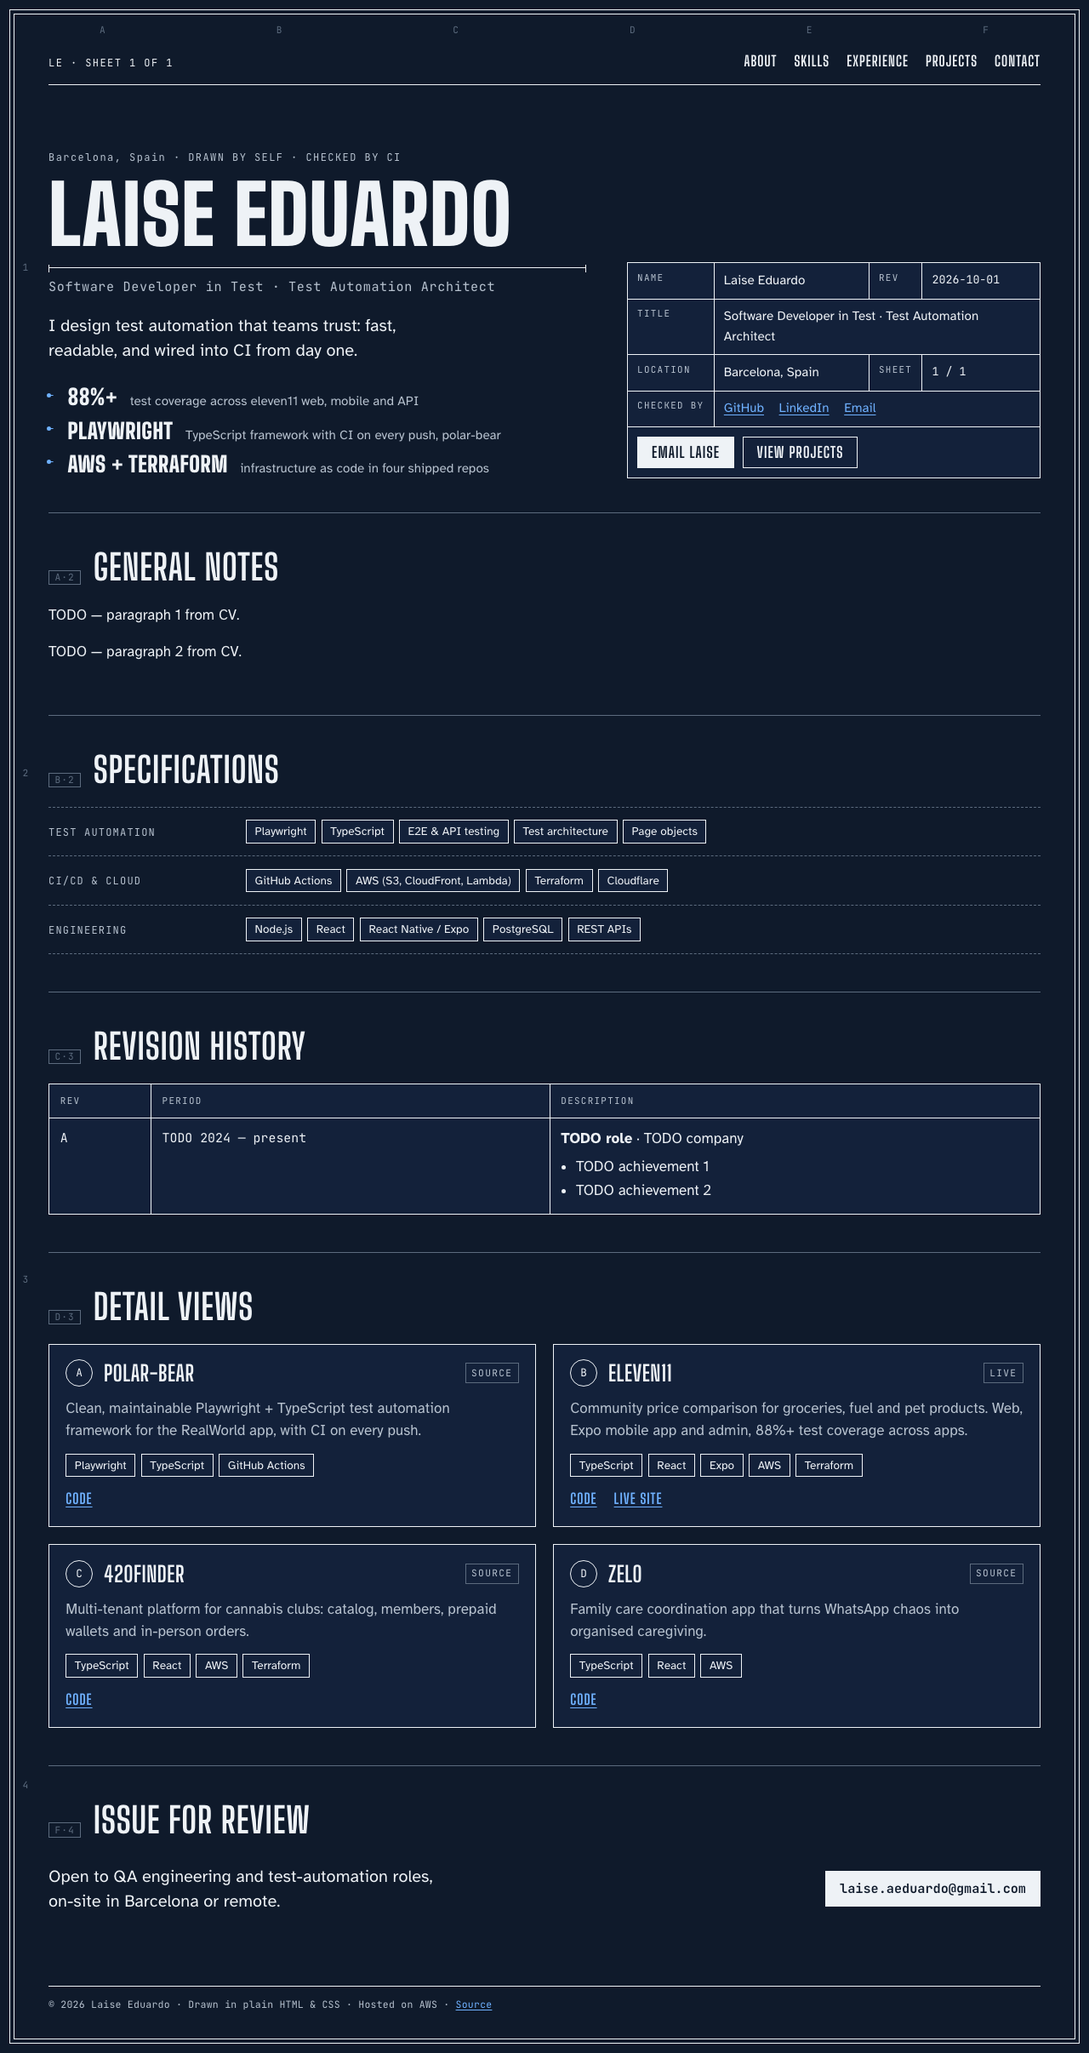
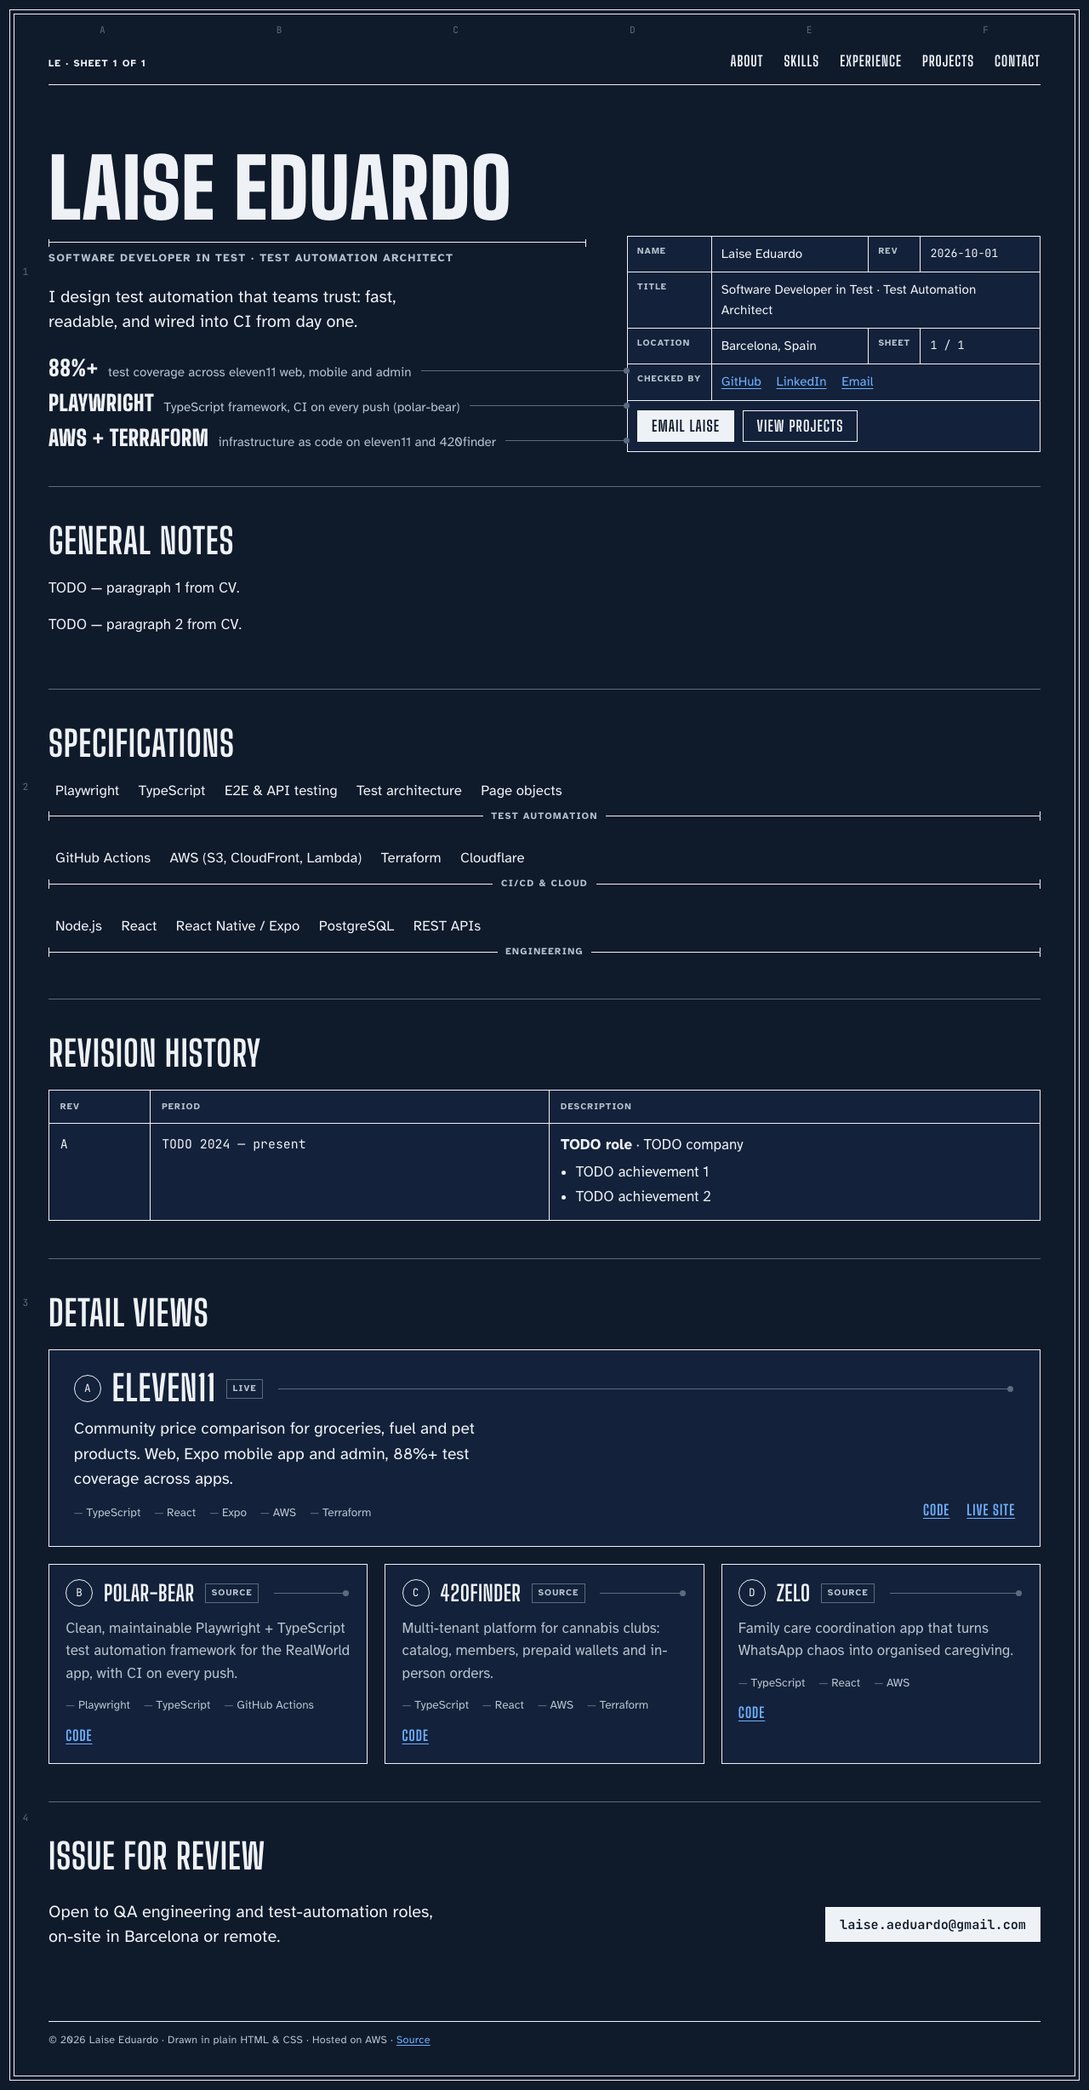
design: apply finish-review fixes (leaders, dimension lines, billing, truth, labels)

diff --git a/site/styles.css b/site/styles.css
@@ -69,6 +69,7 @@ h1, h2, h3 {
 }
 
 .mono { font-family: var(--mono); font-variant-numeric: tabular-nums; font-size: 0.875em; }
+.label, .title-block th, .rev th, .scale, .brand, footer, .top nav { font-family: var(--body); }
 
 .skip {
   position: absolute; left: var(--gutter); top: -3rem;
@@ -118,17 +119,18 @@ h1, h2, h3 {
   margin-bottom: 2rem;
 }
 .brand {
-  font-family: var(--mono); font-size: 0.75rem; letter-spacing: 0.12em;
+  font-family: var(--body); font-weight: 700; font-size: 0.72rem; letter-spacing: 0.1em; text-transform: uppercase;
   color: var(--ink); text-decoration: none;
 }
-.top nav { display: flex; flex-wrap: wrap; gap: 0 1.25rem; }
+.top nav { display: flex; flex-wrap: wrap; gap: 0 1rem; }
 .top nav a {
   font-family: var(--display); text-transform: uppercase; font-weight: 700;
-  font-size: 1.05rem; letter-spacing: 0.06em; color: var(--ink);
+  font-size: 1rem; letter-spacing: 0.06em; color: var(--ink);
   text-decoration: none; padding: 0.15rem 0;
   border-bottom: 2px solid transparent;
 }
 .top nav a:hover, .top nav a:focus-visible { border-bottom-color: var(--ink); outline: none; }
+@media (min-width: 48rem) { .top nav { gap: 0 1.5rem; } .top nav a { font-size: 1.05rem; } }
 
 /* --- hero / title block -------------------------------------------- */
 
@@ -143,17 +145,13 @@ h1, h2, h3 {
   .hero { grid-template-columns: minmax(0, 1.3fr) minmax(0, 1fr); align-items: end; gap: 3rem; }
 }
 
-.dim {
-  font-family: var(--mono); font-size: 0.75rem; letter-spacing: 0.12em;
-  color: var(--ink-2); margin: 0 0 0.75rem;
-}
 .hero h1 {
   font-size: clamp(3.4rem, 11vw, 6rem);
   font-weight: 900;
   letter-spacing: 0.01em;
 }
 .hero .title {
-  font-family: var(--mono); font-size: 0.95rem; letter-spacing: 0.04em;
+  font-family: var(--body); font-weight: 700; text-transform: uppercase; font-size: 0.8rem; letter-spacing: 0.1em;
   color: var(--ink-2); margin: 1rem 0 0;
   padding-top: 0.6rem;
   border-top: 1px solid var(--ink);
@@ -166,26 +164,42 @@ h1, h2, h3 {
 .hero .title::after { right: 0; }
 .pitch { font-size: 1.25rem; line-height: 1.45; max-width: 36ch; margin: 1.25rem 0 0; text-wrap: pretty; }
 
-.callouts { list-style: none; margin: 1.75rem 0 0; padding: 0; display: grid; gap: 0.6rem; }
+.callouts { list-style: none; margin: 1.75rem 0 0; padding: 0; display: grid; gap: 0.7rem; }
 .callouts a {
   min-width: 0;
-  display: grid; grid-template-columns: minmax(0, 1fr); gap: 0.9rem; align-items: baseline;
-  color: var(--ink); text-decoration: none; position: relative; padding-left: 1.4rem;
+  display: flex; flex-wrap: wrap; align-items: baseline; gap: 0.35rem 0.7rem;
+  color: var(--ink); text-decoration: none;
 }
-.callouts a::before {
-  content: ""; position: absolute; left: 0; top: 0.55em; width: 0.9rem; height: 1px;
-  background: var(--accent); transform-origin: left; transform: scaleX(0.4);
-  transition: transform 0.5s var(--ease);
+.callouts strong { font-family: var(--display); font-size: 1.6rem; font-weight: 900; letter-spacing: 0.02em; text-transform: uppercase; line-height: 1; }
+.callouts span { color: var(--ink-2); font-size: 0.95rem; }
+.callouts a:hover span, .callouts a:focus-visible span { color: var(--ink); }
+
+/* leader: a rule that runs from the claim to the title block, dot at the target end */
+.leader { display: none; }
+@media (min-width: 64rem) {
+  .callouts { margin-right: -3rem; } /* cross the grid gap so leaders touch the title block */
+  .callouts a { flex-wrap: nowrap; }
+  .callouts span { white-space: nowrap; }
+  .leader {
+    display: block; position: relative; flex: 1 1 2rem; min-width: 2rem; height: 1px;
+    align-self: center; margin-top: 0.1em;
+    background: var(--rule);
+  }
+  .leader::before {
+    content: ""; position: absolute; inset: 0; background: var(--accent);
+    transform-origin: left; transform: scaleX(0);
+    transition: transform 0.55s var(--ease);
+  }
+  .leader::after {
+    content: ""; position: absolute; right: -3px; top: -3px; width: 7px; height: 7px;
+    border-radius: 50%; background: var(--rule);
+    transition: background-color 0.2s 0.3s;
+  }
+  a:hover > .leader::before, a:focus-visible > .leader::before,
+  .detail:hover .leader::before, .detail:focus-within .leader::before { transform: scaleX(1); }
+  a:hover > .leader::after, a:focus-visible > .leader::after,
+  .detail:hover .leader::after, .detail:focus-within .leader::after { background: var(--accent); }
 }
-.callouts a::after {
-  content: ""; position: absolute; left: -2px; top: calc(0.55em - 2px); width: 5px; height: 5px;
-  border-radius: 50%; background: var(--accent);
-}
-.callouts a:hover::before, .callouts a:focus-visible::before { transform: scaleX(1); }
-@media (min-width: 48rem) { .callouts a { grid-template-columns: auto minmax(0, 1fr); } }
-.callouts strong { min-width: 0; overflow-wrap: anywhere; font-family: var(--display); font-size: 1.6rem; font-weight: 900; letter-spacing: 0.02em; text-transform: uppercase; line-height: 1; }
-.callouts span { min-width: 0; overflow-wrap: anywhere; color: var(--ink-2); font-size: 0.95rem; }
-.callouts a:hover span, .callouts a:focus-visible span { color: var(--accent); }
 
 .title-block {
   width: 100%;
@@ -196,7 +210,7 @@ h1, h2, h3 {
 }
 .title-block th, .title-block td { border: 1px solid var(--ink); padding: 0.55rem 0.7rem; vertical-align: top; text-align: left; }
 .title-block th {
-  font-family: var(--mono); font-weight: 400; font-size: 0.68rem; letter-spacing: 0.12em;
+  font-family: var(--body); font-weight: 700; font-size: 0.66rem; letter-spacing: 0.1em;
   text-transform: uppercase; color: var(--ink-2); width: 1%; white-space: nowrap;
 }
 .title-block .links { display: flex; flex-wrap: wrap; gap: 0.4rem 1.1rem; }
@@ -212,29 +226,35 @@ h1, h2, h3 {
 }
 .btn:hover, .btn:focus-visible { background: var(--ink); color: var(--sheet); }
 .btn.primary { background: var(--ink); color: var(--sheet); }
-.btn.primary:hover, .btn.primary:focus-visible { background: var(--accent); color: var(--accent-ink); border-color: var(--accent); }
+.btn.primary:hover, .btn.primary:focus-visible { background: var(--sheet); color: var(--ink); }
 
 /* --- sections -------------------------------------------------------- */
 
 main > section { padding: 2.75rem 0; border-bottom: 1px solid var(--rule); }
 main > section:last-child { border-bottom: 0; }
 
-h2 { font-size: clamp(1.9rem, 4vw, 2.6rem); font-weight: 700; margin-bottom: 1.4rem; display: flex; align-items: baseline; gap: 0.9rem; }
-.zone {
-  font-family: var(--mono); font-size: 0.7rem; letter-spacing: 0.1em; color: var(--rule);
-  border: 1px solid var(--rule); padding: 0.15rem 0.4rem; font-weight: 400; text-transform: none;
-}
+h2 { font-size: clamp(1.9rem, 4vw, 2.6rem); font-weight: 700; margin-bottom: 1.4rem; }
 
 .prose { max-width: 68ch; }
 .prose p { margin: 0 0 1em; }
 
-/* specifications (dimension rows) */
-.dims { margin: 0; }
-.dim-row { display: grid; gap: 0.5rem; padding: 0.9rem 0; border-top: 1px dashed var(--rule); }
-.dim-row:last-child { border-bottom: 1px dashed var(--rule); }
-@media (min-width: 48rem) { .dim-row { grid-template-columns: 14rem 1fr; } }
-.dims dt { font-family: var(--mono); font-size: 0.75rem; letter-spacing: 0.1em; text-transform: uppercase; color: var(--ink-2); padding-top: 0.35rem; }
+/* specifications: each group is a dimension line — items are the dimensioned span,
+   the group name is the measured value set on the line between extension ticks */
+.dims { margin: 0; display: grid; gap: 1.6rem; }
+.dim-row { display: grid; gap: 0.35rem; }
 .dims dd { margin: 0; }
+.span { list-style: none; margin: 0; padding: 0 0.5rem; display: flex; flex-wrap: wrap; gap: 0.3rem 1.4rem; }
+.span li { font-size: 1.05rem; }
+.dims dt { position: relative; height: 1.4rem; display: grid; place-items: center; }
+.dims dt::before { content: ""; position: absolute; left: 0; right: 0; top: 50%; height: 1px; background: var(--ink); }
+.dims dt::after {
+  content: ""; position: absolute; left: 0; right: 0; top: calc(50% - 5px); height: 11px;
+  border-left: 1px solid var(--ink); border-right: 1px solid var(--ink);
+}
+.measure {
+  position: relative; z-index: 1; background: var(--sheet); padding: 0 0.6rem;
+  font-size: 0.7rem; font-weight: 700; letter-spacing: 0.12em; text-transform: uppercase; color: var(--ink-2);
+}
 
 .chips { list-style: none; margin: 0; padding: 0; display: flex; flex-wrap: wrap; gap: 0.4rem; }
 .chips li {
@@ -245,7 +265,7 @@ h2 { font-size: clamp(1.9rem, 4vw, 2.6rem); font-weight: 700; margin-bottom: 1.4
 /* revision table (experience) */
 .rev { width: 100%; border-collapse: collapse; border: 1px solid var(--ink); background: var(--cell); }
 .rev th, .rev td { border: 1px solid var(--ink); padding: 0.7rem 0.8rem; text-align: left; vertical-align: top; }
-.rev th { font-family: var(--mono); font-weight: 400; font-size: 0.68rem; letter-spacing: 0.12em; text-transform: uppercase; color: var(--ink-2); }
+.rev th { font-family: var(--body); font-weight: 700; font-size: 0.66rem; letter-spacing: 0.1em; text-transform: uppercase; color: var(--ink-2); }
 .rev td.period { white-space: nowrap; }
 .rev-title { margin: 0 0 0.4rem; }
 .rev ul { margin: 0; padding-left: 1.1rem; }
@@ -257,24 +277,35 @@ h2 { font-size: clamp(1.9rem, 4vw, 2.6rem); font-weight: 700; margin-bottom: 1.4
   .rev td.period { white-space: normal; }
 }
 
-/* detail views (projects) */
+/* detail views (projects): headline detail first at full width, support details below */
 .details { display: grid; gap: 1.25rem; }
-@media (min-width: 48rem) { .details { grid-template-columns: repeat(2, 1fr); } }
+@media (min-width: 48rem) { .details { grid-template-columns: repeat(3, 1fr); } .detail.headline { grid-column: 1 / -1; } }
 .detail {
   border: 1px solid var(--ink); background: var(--cell); padding: 1.1rem 1.2rem 1.2rem;
   display: flex; flex-direction: column; gap: 0.8rem; position: relative;
 }
 .detail-head { display: flex; align-items: center; gap: 0.8rem; }
+.detail-head .leader { flex: 1 1 1rem; min-width: 1rem; margin: 0 0.3rem; }
 .bubble {
   width: 2rem; height: 2rem; border-radius: 50%; border: 1px solid var(--ink);
   display: inline-grid; place-items: center; font-family: var(--mono); font-size: 0.8rem; flex: none;
 }
-.detail h3 { font-size: 1.6rem; font-weight: 700; flex: 1; }
-.scale { font-size: 0.7rem; letter-spacing: 0.12em; color: var(--ink-2); border: 1px solid var(--rule); padding: 0.15rem 0.4rem; }
-.detail p { margin: 0; color: var(--ink-2); }
+.detail h3 { font-size: 1.6rem; font-weight: 700; }
+.scale { font-size: 0.66rem; font-weight: 700; letter-spacing: 0.1em; text-transform: uppercase; color: var(--ink-2); border: 1px solid var(--rule); padding: 0.15rem 0.4rem; }
+.detail p { margin: 0; color: var(--ink-2); max-width: 60ch; }
+.notes { list-style: none; margin: 0; padding: 0; display: flex; flex-wrap: wrap; gap: 0.2rem 1rem; font-size: 0.85rem; color: var(--ink-2); }
+.notes li::before { content: "— "; color: var(--rule); }
 .detail-links { display: flex; gap: 1.25rem; margin-top: auto; }
 .detail-links a { font-family: var(--display); text-transform: uppercase; font-weight: 700; font-size: 1.05rem; letter-spacing: 0.06em; }
 .detail:hover .bubble, .detail:focus-within .bubble { background: var(--ink); color: var(--sheet); }
+@media (min-width: 48rem) {
+  .detail.headline { padding: 1.6rem 1.8rem 1.8rem; display: grid; grid-template-columns: 1fr 1fr; grid-template-rows: auto auto auto; column-gap: 2.5rem; }
+  .detail.headline .detail-head { grid-column: 1 / -1; }
+  .detail.headline h3 { font-size: 2.6rem; }
+  .detail.headline > p { font-size: 1.2rem; color: var(--ink); grid-row: 2; }
+  .detail.headline .notes { grid-row: 3; grid-column: 1; }
+  .detail.headline .detail-links { grid-column: 2; grid-row: 2 / 4; align-self: end; justify-content: end; }
+}
 
 /* contact */
 .contact-row { display: grid; gap: 1.25rem; align-items: center; }
@@ -282,12 +313,12 @@ h2 { font-size: clamp(1.9rem, 4vw, 2.6rem); font-weight: 700; margin-bottom: 1.4
 #contact .pitch { margin: 0; }
 #contact .btn { font-family: var(--mono); text-transform: none; letter-spacing: 0; font-size: 0.95rem; padding: 0.75rem 1rem; }
 
-footer { margin-top: 2rem; padding-top: 0.75rem; border-top: 1px solid var(--ink); font-family: var(--mono); font-size: 0.72rem; letter-spacing: 0.02em; color: var(--ink-2); }
+footer { margin-top: 2rem; padding-top: 0.75rem; border-top: 1px solid var(--ink); font-family: var(--body); font-size: 0.78rem; letter-spacing: 0.02em; color: var(--ink-2); }
 footer p { margin: 0; }
 
 @media (prefers-reduced-motion: reduce) {
   html { scroll-behavior: auto; }
-  .callouts a::before { transition: none; transform: none; }
+  .leader::before { transition: none; }
 }
 
 /* title block reflow on narrow sheets */

diff --git a/site/main.js b/site/main.js
@@ -5,24 +5,22 @@ const esc = s => String(s).replace(/[&<>"']/g, c => ({ '&': '&amp;', '<': '&lt;'
 const html = (strings, ...vals) => strings.reduce((out, s, i) => out + s + (i < vals.length ? vals[i] : ''), '');
 const list = (arr, fn) => arr.map(fn).join('');
 const ext = 'rel="noopener" target="_blank"';
-const rev = new Date().toISOString().slice(0, 10);
 
 const hero = () => html`
 <section id="hero" class="hero" aria-labelledby="name">
   <div class="hero-lead">
-    <p class="dim">${esc(content.location)} · DRAWN BY SELF · CHECKED BY CI</p>
     <h1 id="name">${esc(content.name)}</h1>
     <p class="title">${esc(content.title)}</p>
     <p class="pitch">${esc(content.pitch)}</p>
     <ul class="callouts" aria-label="Proof">
-      ${list(content.proof, p => html`<li><a href="${esc(p.href)}" ${ext}><strong>${esc(p.value)}</strong><span>${esc(p.label)}</span></a></li>`)}
+      ${list(content.proof, p => html`<li><a href="${esc(p.href)}" ${ext}><strong>${esc(p.value)}</strong><span>${esc(p.label)}</span><i class="leader" aria-hidden="true"></i></a></li>`)}
     </ul>
   </div>
   <table class="title-block" aria-label="Title block">
     <tbody>
       <tr>
         <th scope="row">Name</th><td>${esc(content.name)}</td>
-        <th scope="row">Rev</th><td class="mono">${rev}</td>
+        <th scope="row">Rev</th><td class="mono">${esc(content.revised)}</td>
       </tr>
       <tr>
         <th scope="row">Title</th><td colspan="3">${esc(content.title)}</td>
@@ -52,25 +50,25 @@ const hero = () => html`
 
 const about = () => html`
 <section id="about" aria-labelledby="h-about">
-  <h2 id="h-about"><span class="zone">A·2</span>General notes</h2>
+  <h2 id="h-about">General notes</h2>
   <div class="prose">${list(content.about, p => html`<p>${esc(p)}</p>`)}</div>
 </section>`;
 
 const skills = () => html`
 <section id="skills" aria-labelledby="h-skills">
-  <h2 id="h-skills"><span class="zone">B·2</span>Specifications</h2>
+  <h2 id="h-skills">Specifications</h2>
   <dl class="dims">
     ${list(content.skills, g => html`
     <div class="dim-row">
-      <dt>${esc(g.group)}</dt>
-      <dd><ul class="chips">${list(g.items, i => html`<li>${esc(i)}</li>`)}</ul></dd>
+      <dd><ul class="span">${list(g.items, i => html`<li>${esc(i)}</li>`)}</ul></dd>
+      <dt><span class="measure">${esc(g.group)}</span></dt>
     </div>`)}
   </dl>
 </section>`;
 
 const experience = () => html`
 <section id="experience" aria-labelledby="h-exp">
-  <h2 id="h-exp"><span class="zone">C·3</span>Revision history</h2>
+  <h2 id="h-exp">Revision history</h2>
   <table class="rev">
     <thead><tr><th scope="col">Rev</th><th scope="col">Period</th><th scope="col">Description</th></tr></thead>
     <tbody>
@@ -89,17 +87,18 @@ const experience = () => html`
 
 const projects = () => html`
 <section id="projects" aria-labelledby="h-projects">
-  <h2 id="h-projects"><span class="zone">D·3</span>Detail views</h2>
+  <h2 id="h-projects">Detail views</h2>
   <div class="details">
     ${list(content.projects, (p, i) => html`
-    <article class="detail" aria-labelledby="p-${i}">
+    <article class="detail${i === 0 ? ' headline' : ''}" aria-labelledby="p-${i}">
       <header class="detail-head">
         <span class="bubble" aria-hidden="true">${String.fromCharCode(65 + i)}</span>
         <h3 id="p-${i}">${esc(p.name)}</h3>
-        <span class="scale mono">${p.live ? 'LIVE' : 'SOURCE'}</span>
+        <span class="scale">${p.live ? 'Live' : 'Source'}</span>
+        <i class="leader" aria-hidden="true"></i>
       </header>
       <p>${esc(p.description)}</p>
-      <ul class="chips">${list(p.tags, t => html`<li>${esc(t)}</li>`)}</ul>
+      <ul class="notes">${list(p.tags, t => html`<li>${esc(t)}</li>`)}</ul>
       <p class="detail-links">
         <a href="${esc(p.repo)}" ${ext}>Code</a>
         ${p.live ? html`<a href="${esc(p.live)}" ${ext}>Live site</a>` : ''}
@@ -110,7 +109,7 @@ const projects = () => html`
 
 const contact = () => html`
 <section id="contact" aria-labelledby="h-contact">
-  <h2 id="h-contact"><span class="zone">F·4</span>Issue for review</h2>
+  <h2 id="h-contact">Issue for review</h2>
   <div class="contact-row">
     <p class="pitch">Open to QA engineering and test-automation roles, on-site in Barcelona or remote.</p>
     <p><a class="btn primary" href="mailto:${esc(content.email)}">${esc(content.email)}</a></p>

diff --git a/site/content.js b/site/content.js
@@ -9,10 +9,11 @@ const content = {
     linkedin: 'https://www.linkedin.com/in/laise-eduardo', // TODO confirm
   },
   cv: null, // set to 'cv.pdf' when the PDF is added to site/
+  revised: '2026-10-01', // last content change; update when editing this file
   proof: [
-    { value: '88%+', label: 'test coverage across eleven11 web, mobile and API', href: 'https://github.com/LaiseEduardo/eleven11' },
-    { value: 'Playwright', label: 'TypeScript framework with CI on every push, polar-bear', href: 'https://github.com/LaiseEduardo/polar-bear' },
-    { value: 'AWS + Terraform', label: 'infrastructure as code in four shipped repos', href: 'https://github.com/LaiseEduardo' },
+    { value: '88%+', label: 'test coverage across eleven11 web, mobile and admin', href: 'https://github.com/LaiseEduardo/eleven11' },
+    { value: 'Playwright', label: 'TypeScript framework, CI on every push (polar-bear)', href: 'https://github.com/LaiseEduardo/polar-bear' },
+    { value: 'AWS + Terraform', label: 'infrastructure as code on eleven11 and 420finder', href: 'https://github.com/LaiseEduardo/eleven11/tree/main/terraform' },
   ],
   about: [
     'TODO — paragraph 1 from CV.',
@@ -27,8 +28,8 @@ const content = {
     { role: 'TODO role', company: 'TODO company', period: 'TODO 2024 — present', bullets: ['TODO achievement 1', 'TODO achievement 2'] },
   ],
   projects: [
-    { name: 'polar-bear', description: 'Clean, maintainable Playwright + TypeScript test automation framework for the RealWorld app, with CI on every push.', tags: ['Playwright', 'TypeScript', 'GitHub Actions'], repo: 'https://github.com/LaiseEduardo/polar-bear', live: null },
     { name: 'eleven11', description: 'Community price comparison for groceries, fuel and pet products. Web, Expo mobile app and admin, 88%+ test coverage across apps.', tags: ['TypeScript', 'React', 'Expo', 'AWS', 'Terraform'], repo: 'https://github.com/LaiseEduardo/eleven11', live: 'https://eleven11finder.com' },
+    { name: 'polar-bear', description: 'Clean, maintainable Playwright + TypeScript test automation framework for the RealWorld app, with CI on every push.', tags: ['Playwright', 'TypeScript', 'GitHub Actions'], repo: 'https://github.com/LaiseEduardo/polar-bear', live: null },
     { name: '420finder', description: 'Multi-tenant platform for cannabis clubs: catalog, members, prepaid wallets and in-person orders.', tags: ['TypeScript', 'React', 'AWS', 'Terraform'], repo: 'https://github.com/LaiseEduardo/420finder', live: null },
     { name: 'Zelo', description: 'Family care coordination app that turns WhatsApp chaos into organised caregiving.', tags: ['TypeScript', 'React', 'AWS'], repo: 'https://github.com/LaiseEduardo/zelo-app', live: null },
   ],

diff --git a/site/404.html b/site/404.html
@@ -15,8 +15,8 @@
   <div class="sheet">
     <main id="main" class="hero">
       <div class="hero-lead">
-        <p class="dim">SHEET NOT FOUND · REV —</p>
         <h1>404</h1>
+        <p class="title">Sheet not found</p>
         <p class="pitch">This sheet is not in the drawing set. <a href="/">Return to sheet 1.</a></p>
       </div>
     </main>
